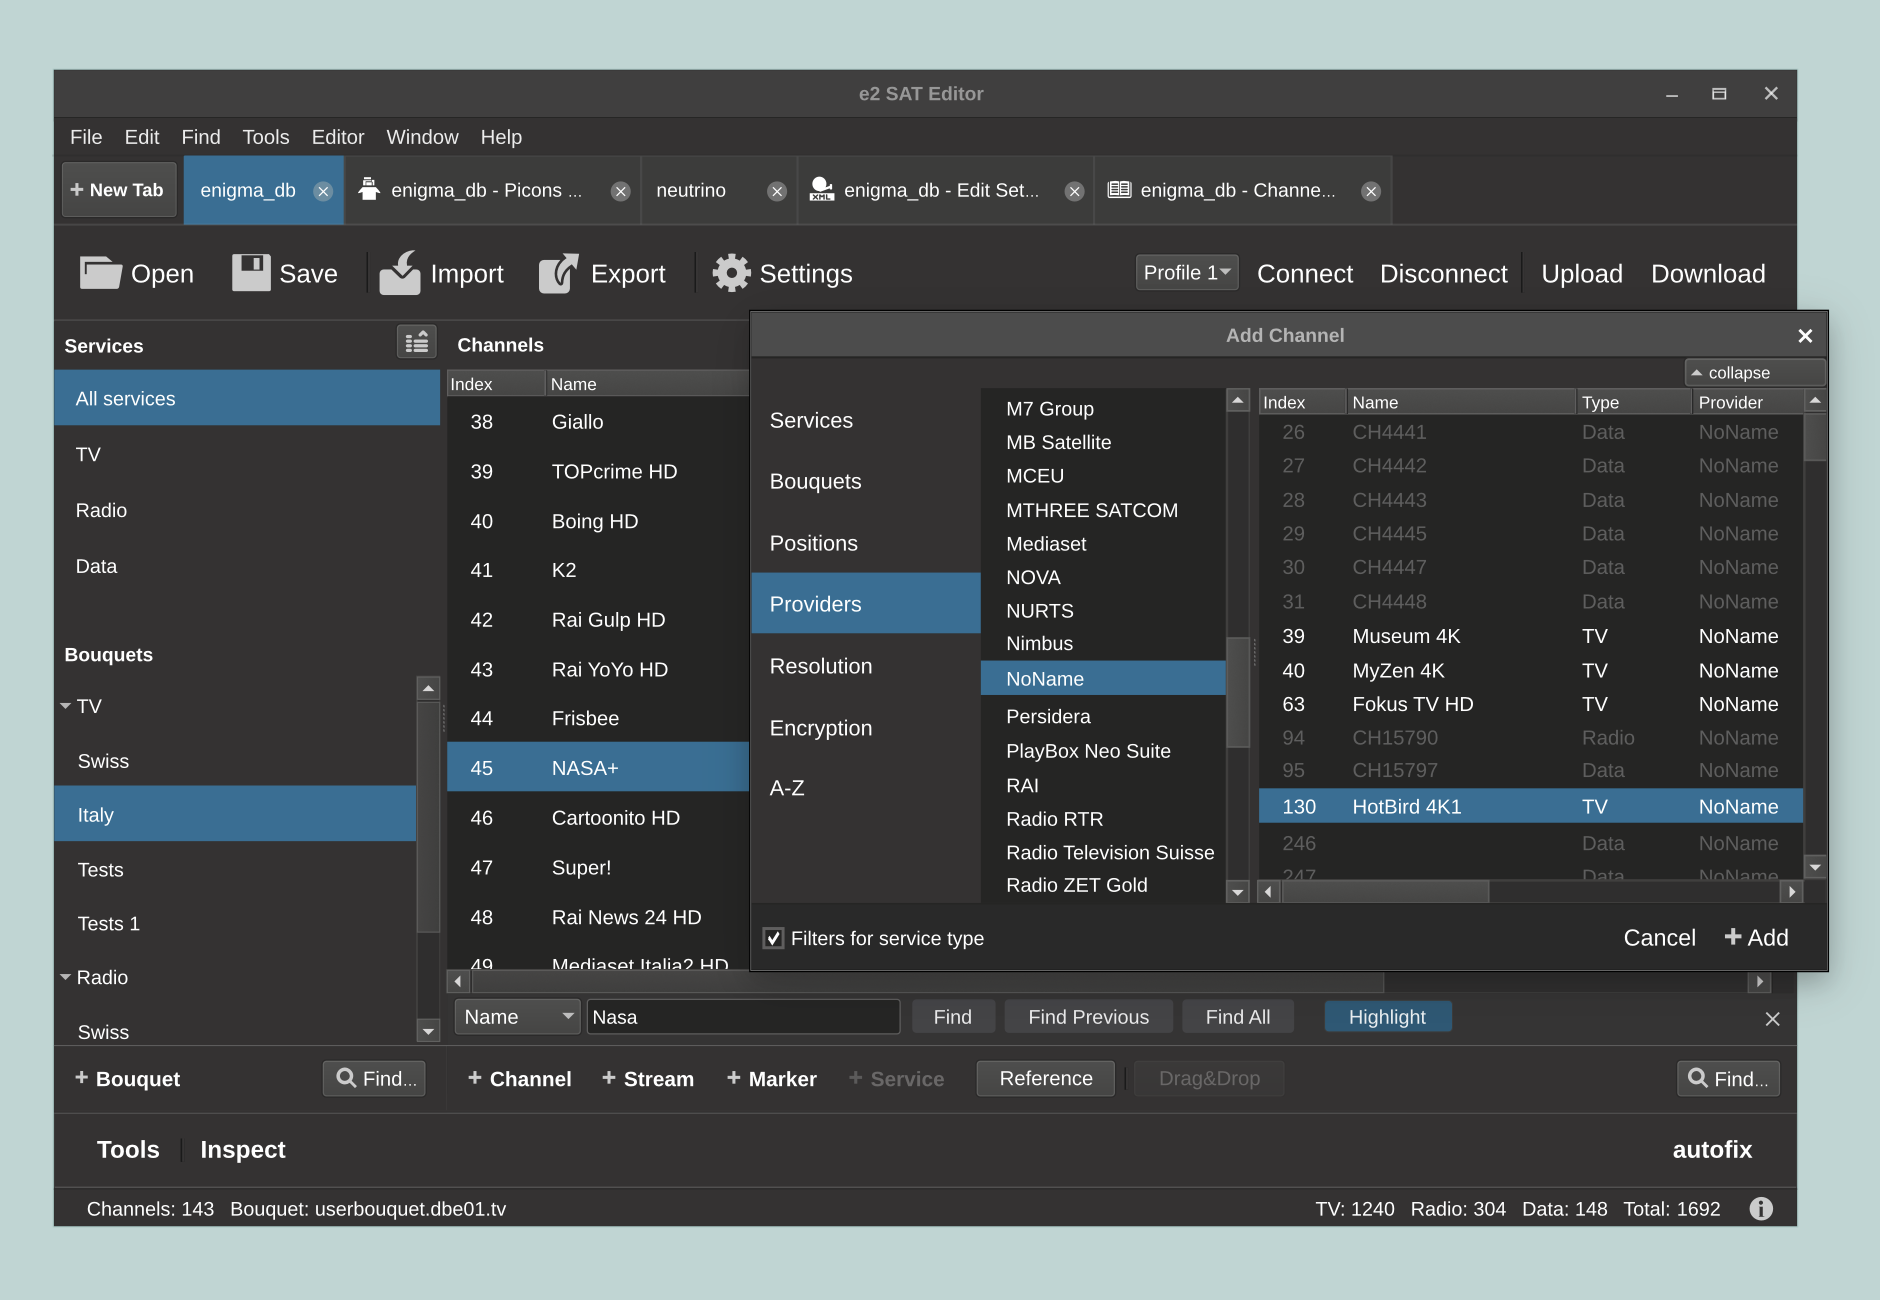
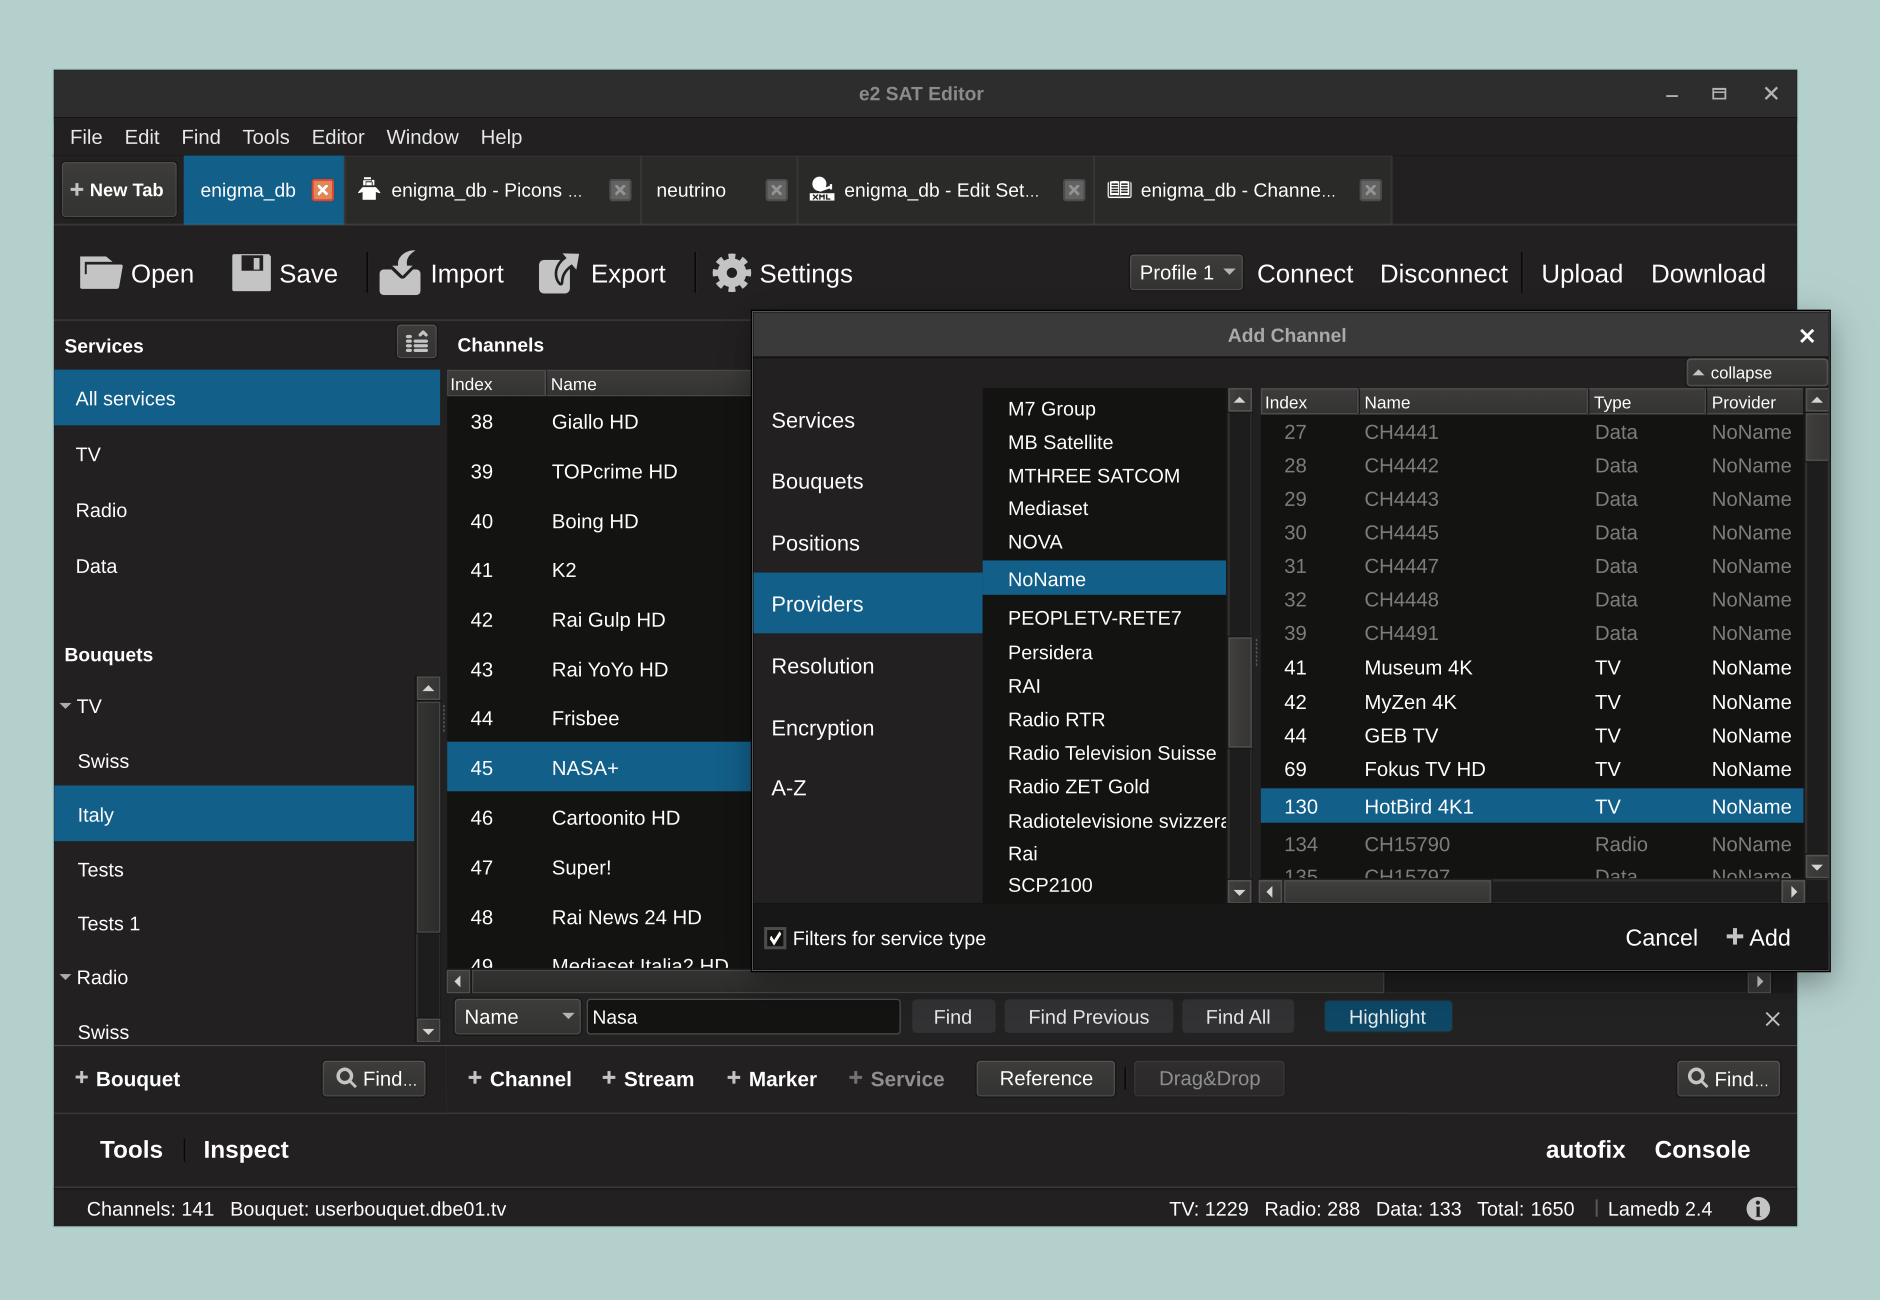
version 2.0.0, updated screenshot images, edit README.md

diff --git a/README.md b/README.md
@@ -29,14 +29,14 @@ And it supports Neutrino, Zapit xml (api v1, v2, v3, v4).
 
 ## Screenshot
 
-*Sample of the software running on Windows*
-[![e2 SAT Editor (screenshot sample on Windows)](https://github.com/ctlcltd/e2-sat-editor/raw/main/res/screenshot-wlw.webp "Sample of the software running on Windows")](https://github.com/ctlcltd/e2-sat-editor/blob/main/res/screenshot-wlw.webp)
+*Sample of the software running with light color appearance on Windows*
+[![e2 SAT Editor (screenshot sample on Windows)](https://github.com/ctlcltd/e2-sat-editor/raw/main/res/screenshot-wlw.webp "Sample of the software running with a light color appearance on Windows")](https://github.com/ctlcltd/e2-sat-editor/blob/main/res/screenshot-wlw.webp)
 
-*Sample of the software running on macOS with dark appearance variant*
-[![e2 SAT Editor (screenshot sample on macOS)](https://github.com/ctlcltd/e2-sat-editor/raw/main/res/screenshot-mdm.webp "Sample of the software running on macOS with dark appearance variant")](https://github.com/ctlcltd/e2-sat-editor/blob/main/res/screenshot-mdm.webp)
+*Sample of the software running with dark color appearance on macOS*
+[![e2 SAT Editor (screenshot sample on macOS)](https://github.com/ctlcltd/e2-sat-editor/raw/main/res/screenshot-mdm.webp "Sample of the software running with a dark color appearance on macOS")](https://github.com/ctlcltd/e2-sat-editor/blob/main/res/screenshot-mdm.webp)
 
-*Sample of the software running with (Qt) Fusion appearance*
-[![e2 SAT Editor (screenshot sample)](https://github.com/ctlcltd/e2-sat-editor/raw/main/res/screenshot-flf.webp "Sample of the software running with (Qt) Fusion appearance")](https://github.com/ctlcltd/e2-sat-editor/blob/main/res/screenshot-flf.webp)
+*Sample of the software running with light color appearance, Qt qfusionstyle*
+[![e2 SAT Editor (screenshot sample, Qt qfusionstyle](https://github.com/ctlcltd/e2-sat-editor/raw/main/res/screenshot-flf.webp "Sample of the software running with a light color appearance, Qt qfusionstyle")](https://github.com/ctlcltd/e2-sat-editor/blob/main/res/screenshot-flf.webp)
 
 
 ## Contributing
